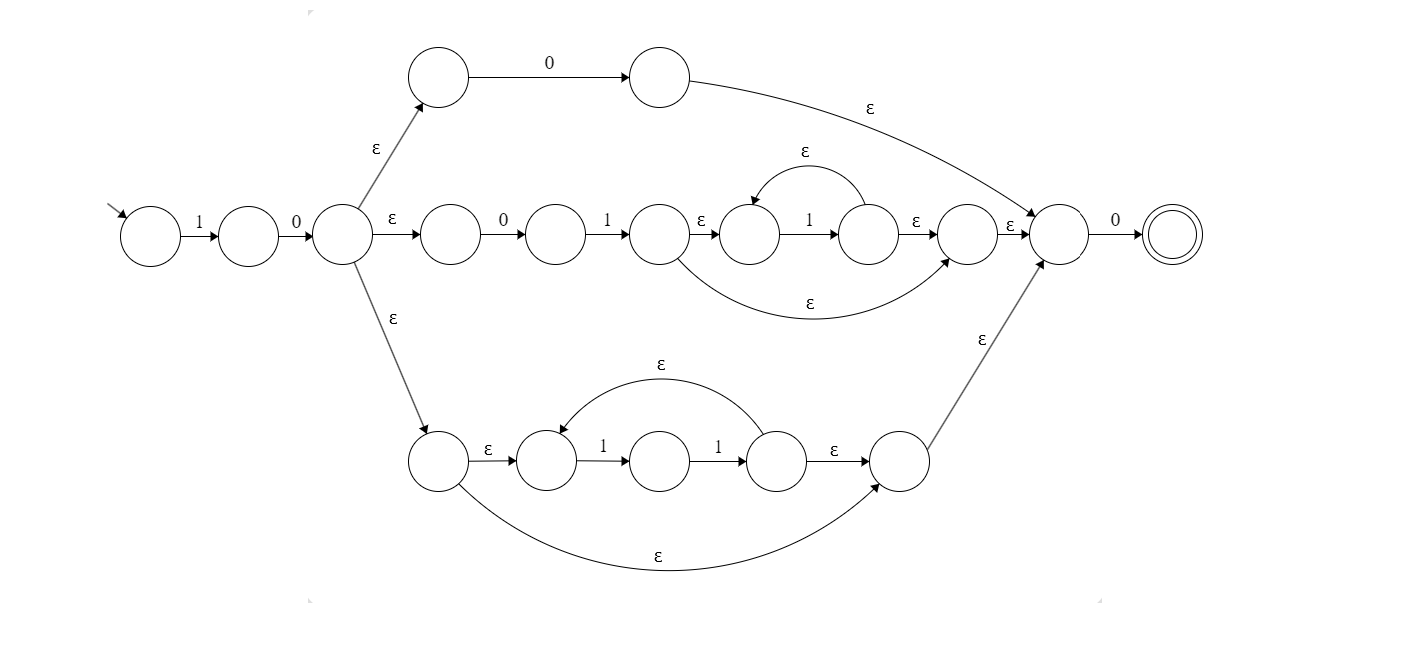
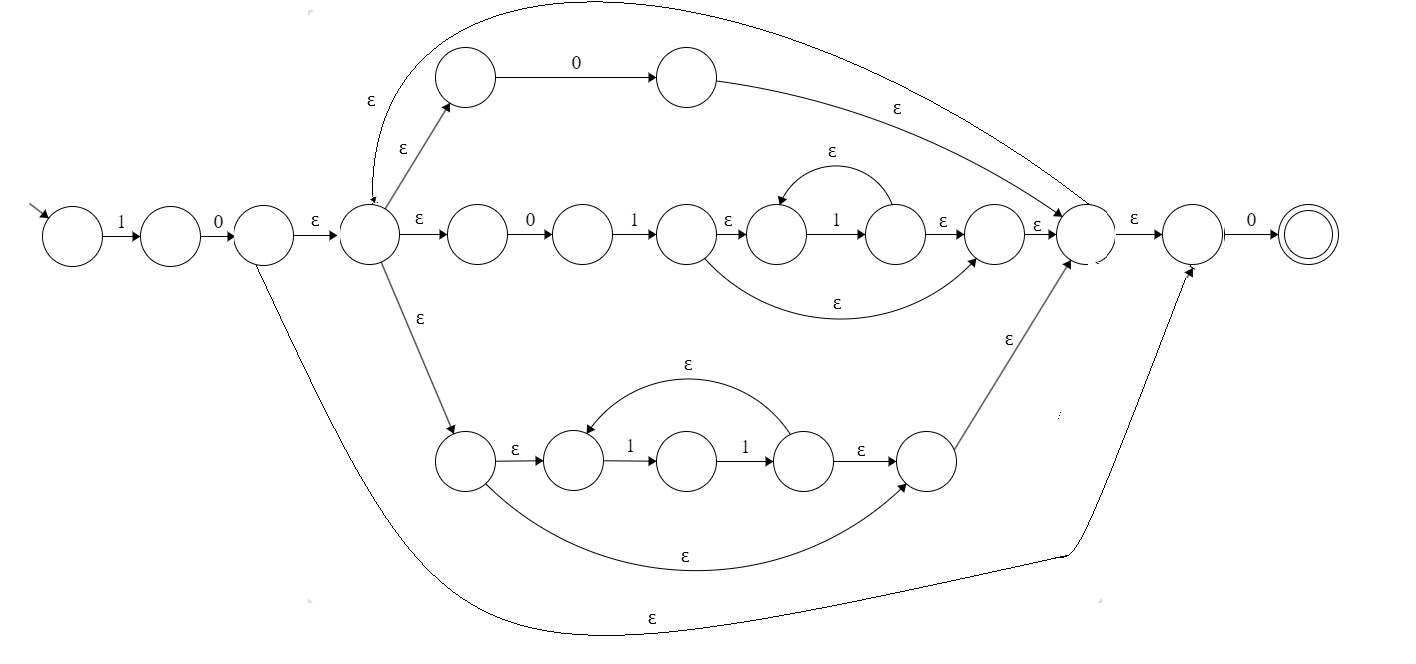
Minor fixes in diagrams

diff --git a/readme.md b/readme.md
@@ -1173,7 +1173,7 @@ Assuming that alphabet set Σ is {0,1}, lets check out the following examples of
 </summary>
 <br>
 <p align="center">
-  (1+ε)(01)*(0+ε)
+  (01)*(0+ε) + (10)*(1+ε) &nbsp;&nbsp;&nbsp;OR&nbsp;&nbsp;&nbsp; (1+ε)(01)*(0+ε)
 </p>
 </details>
 
